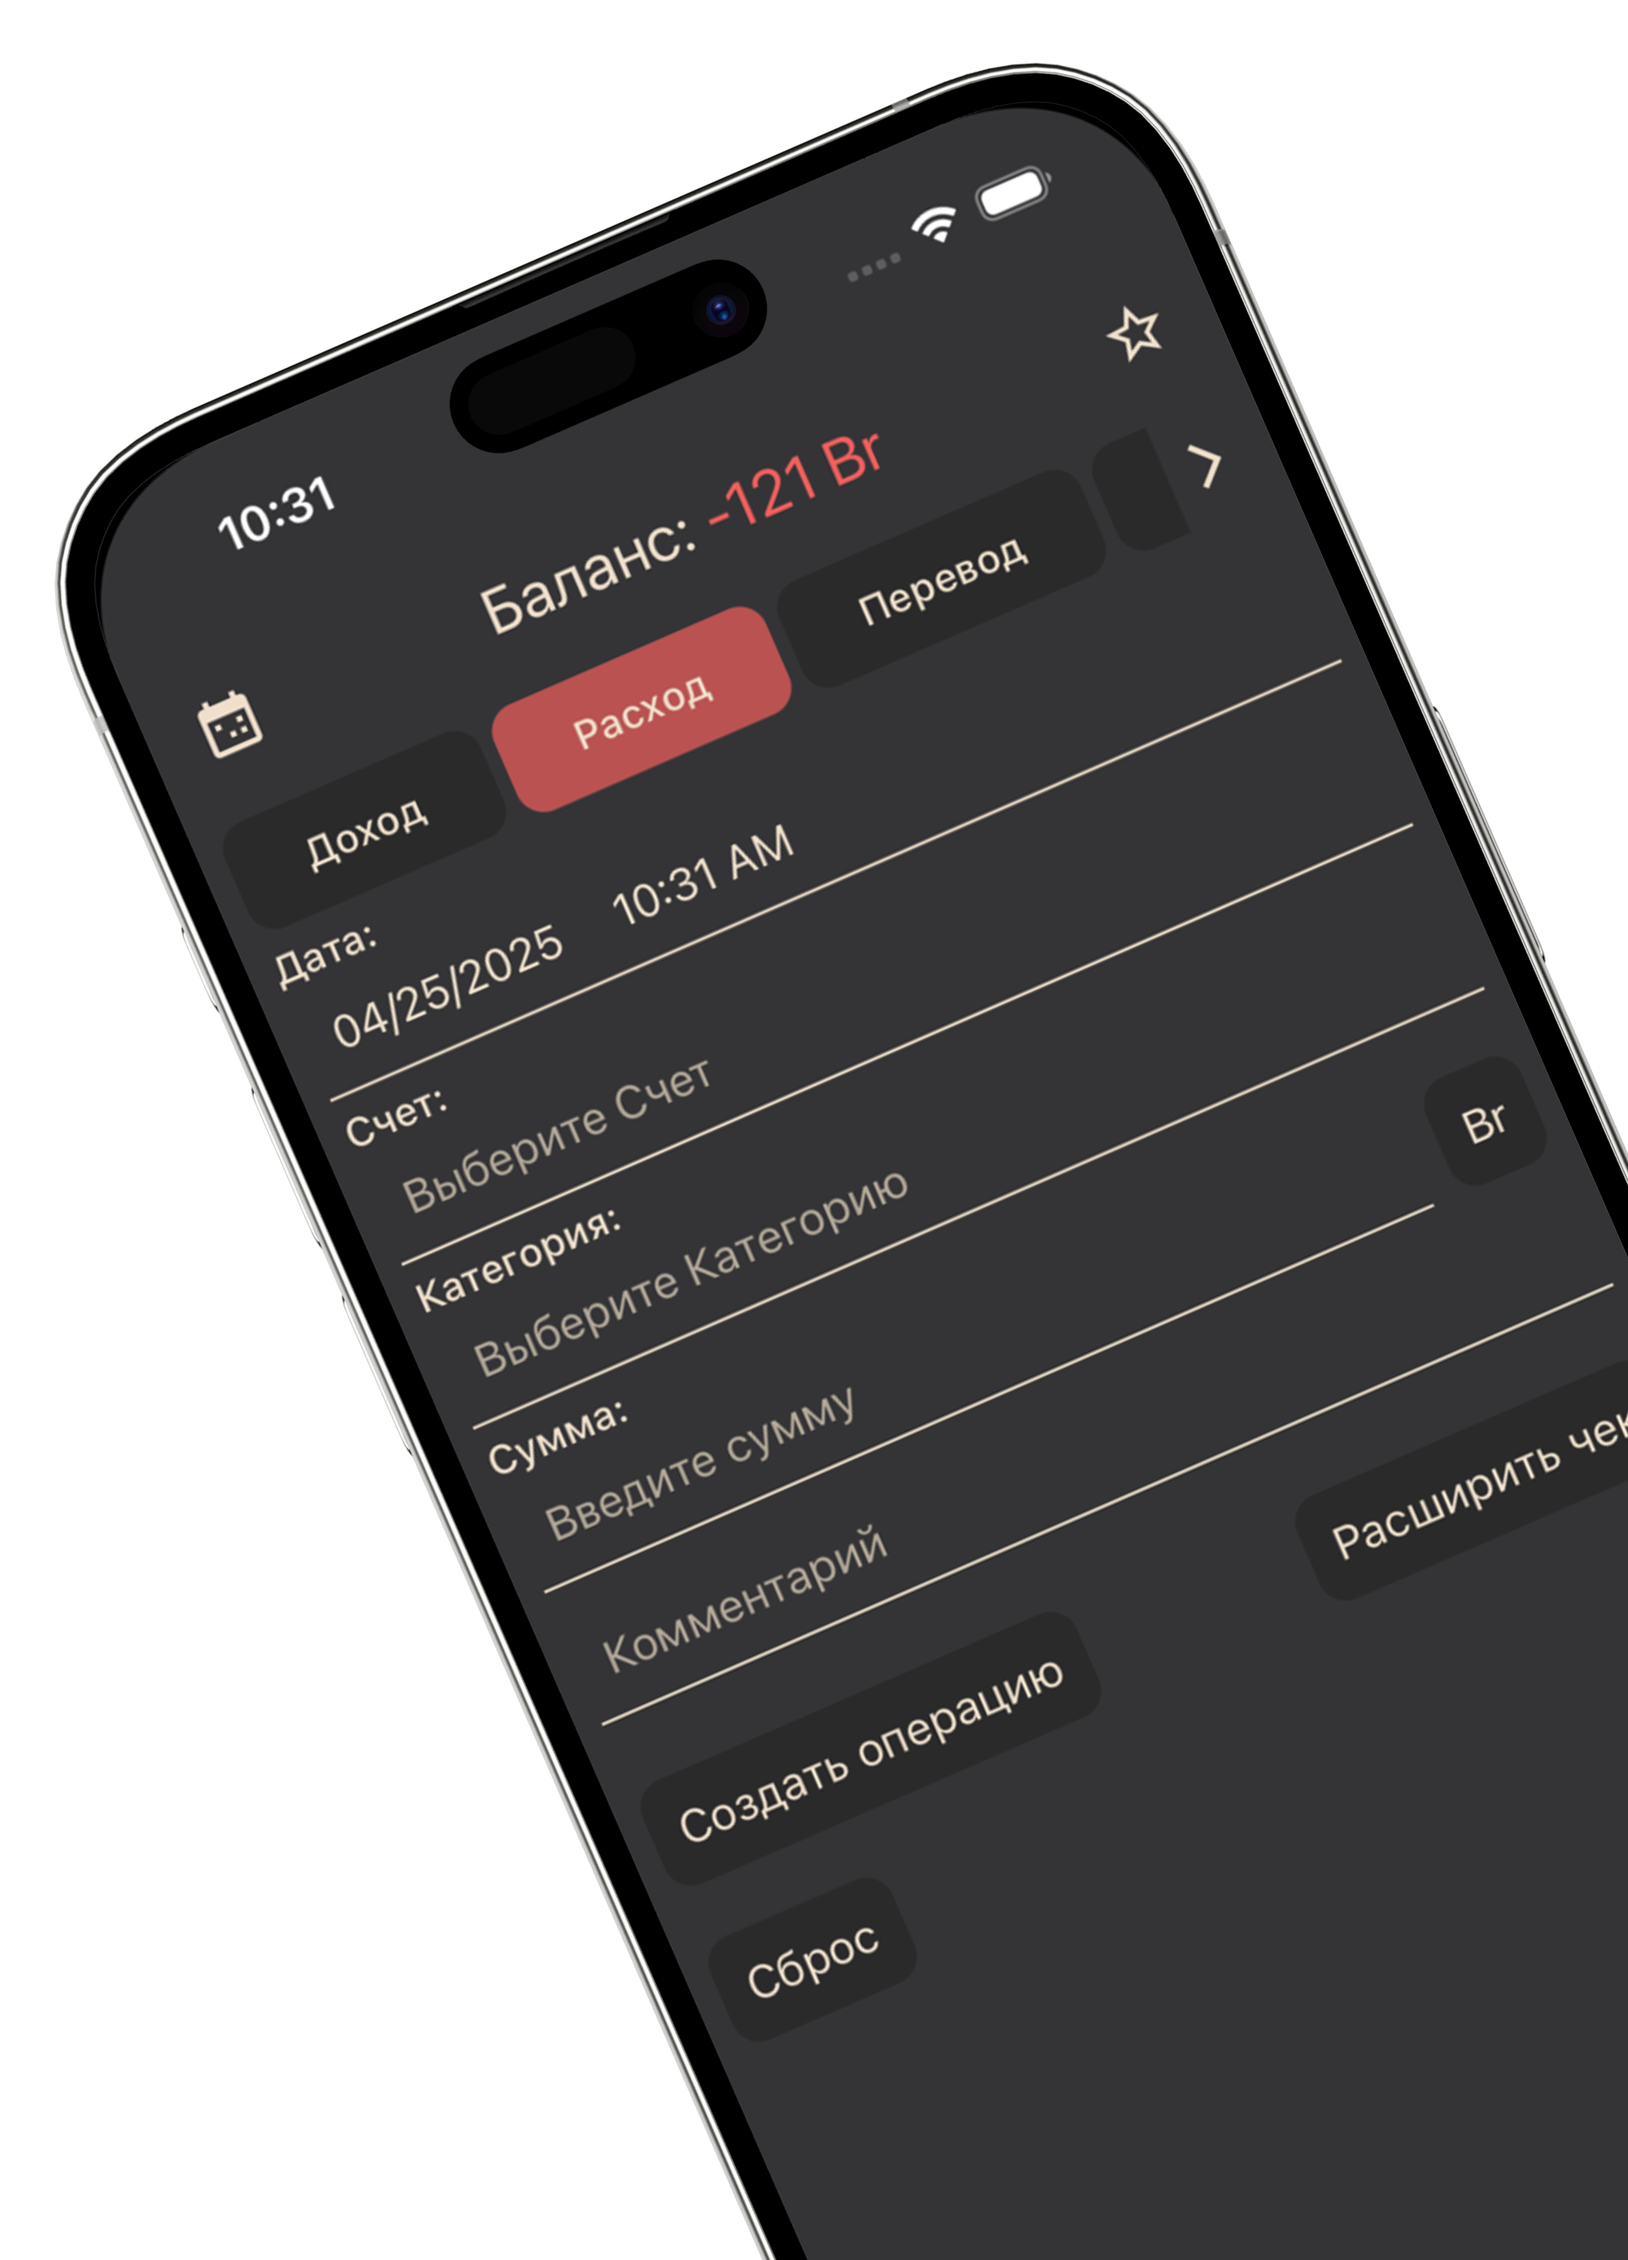
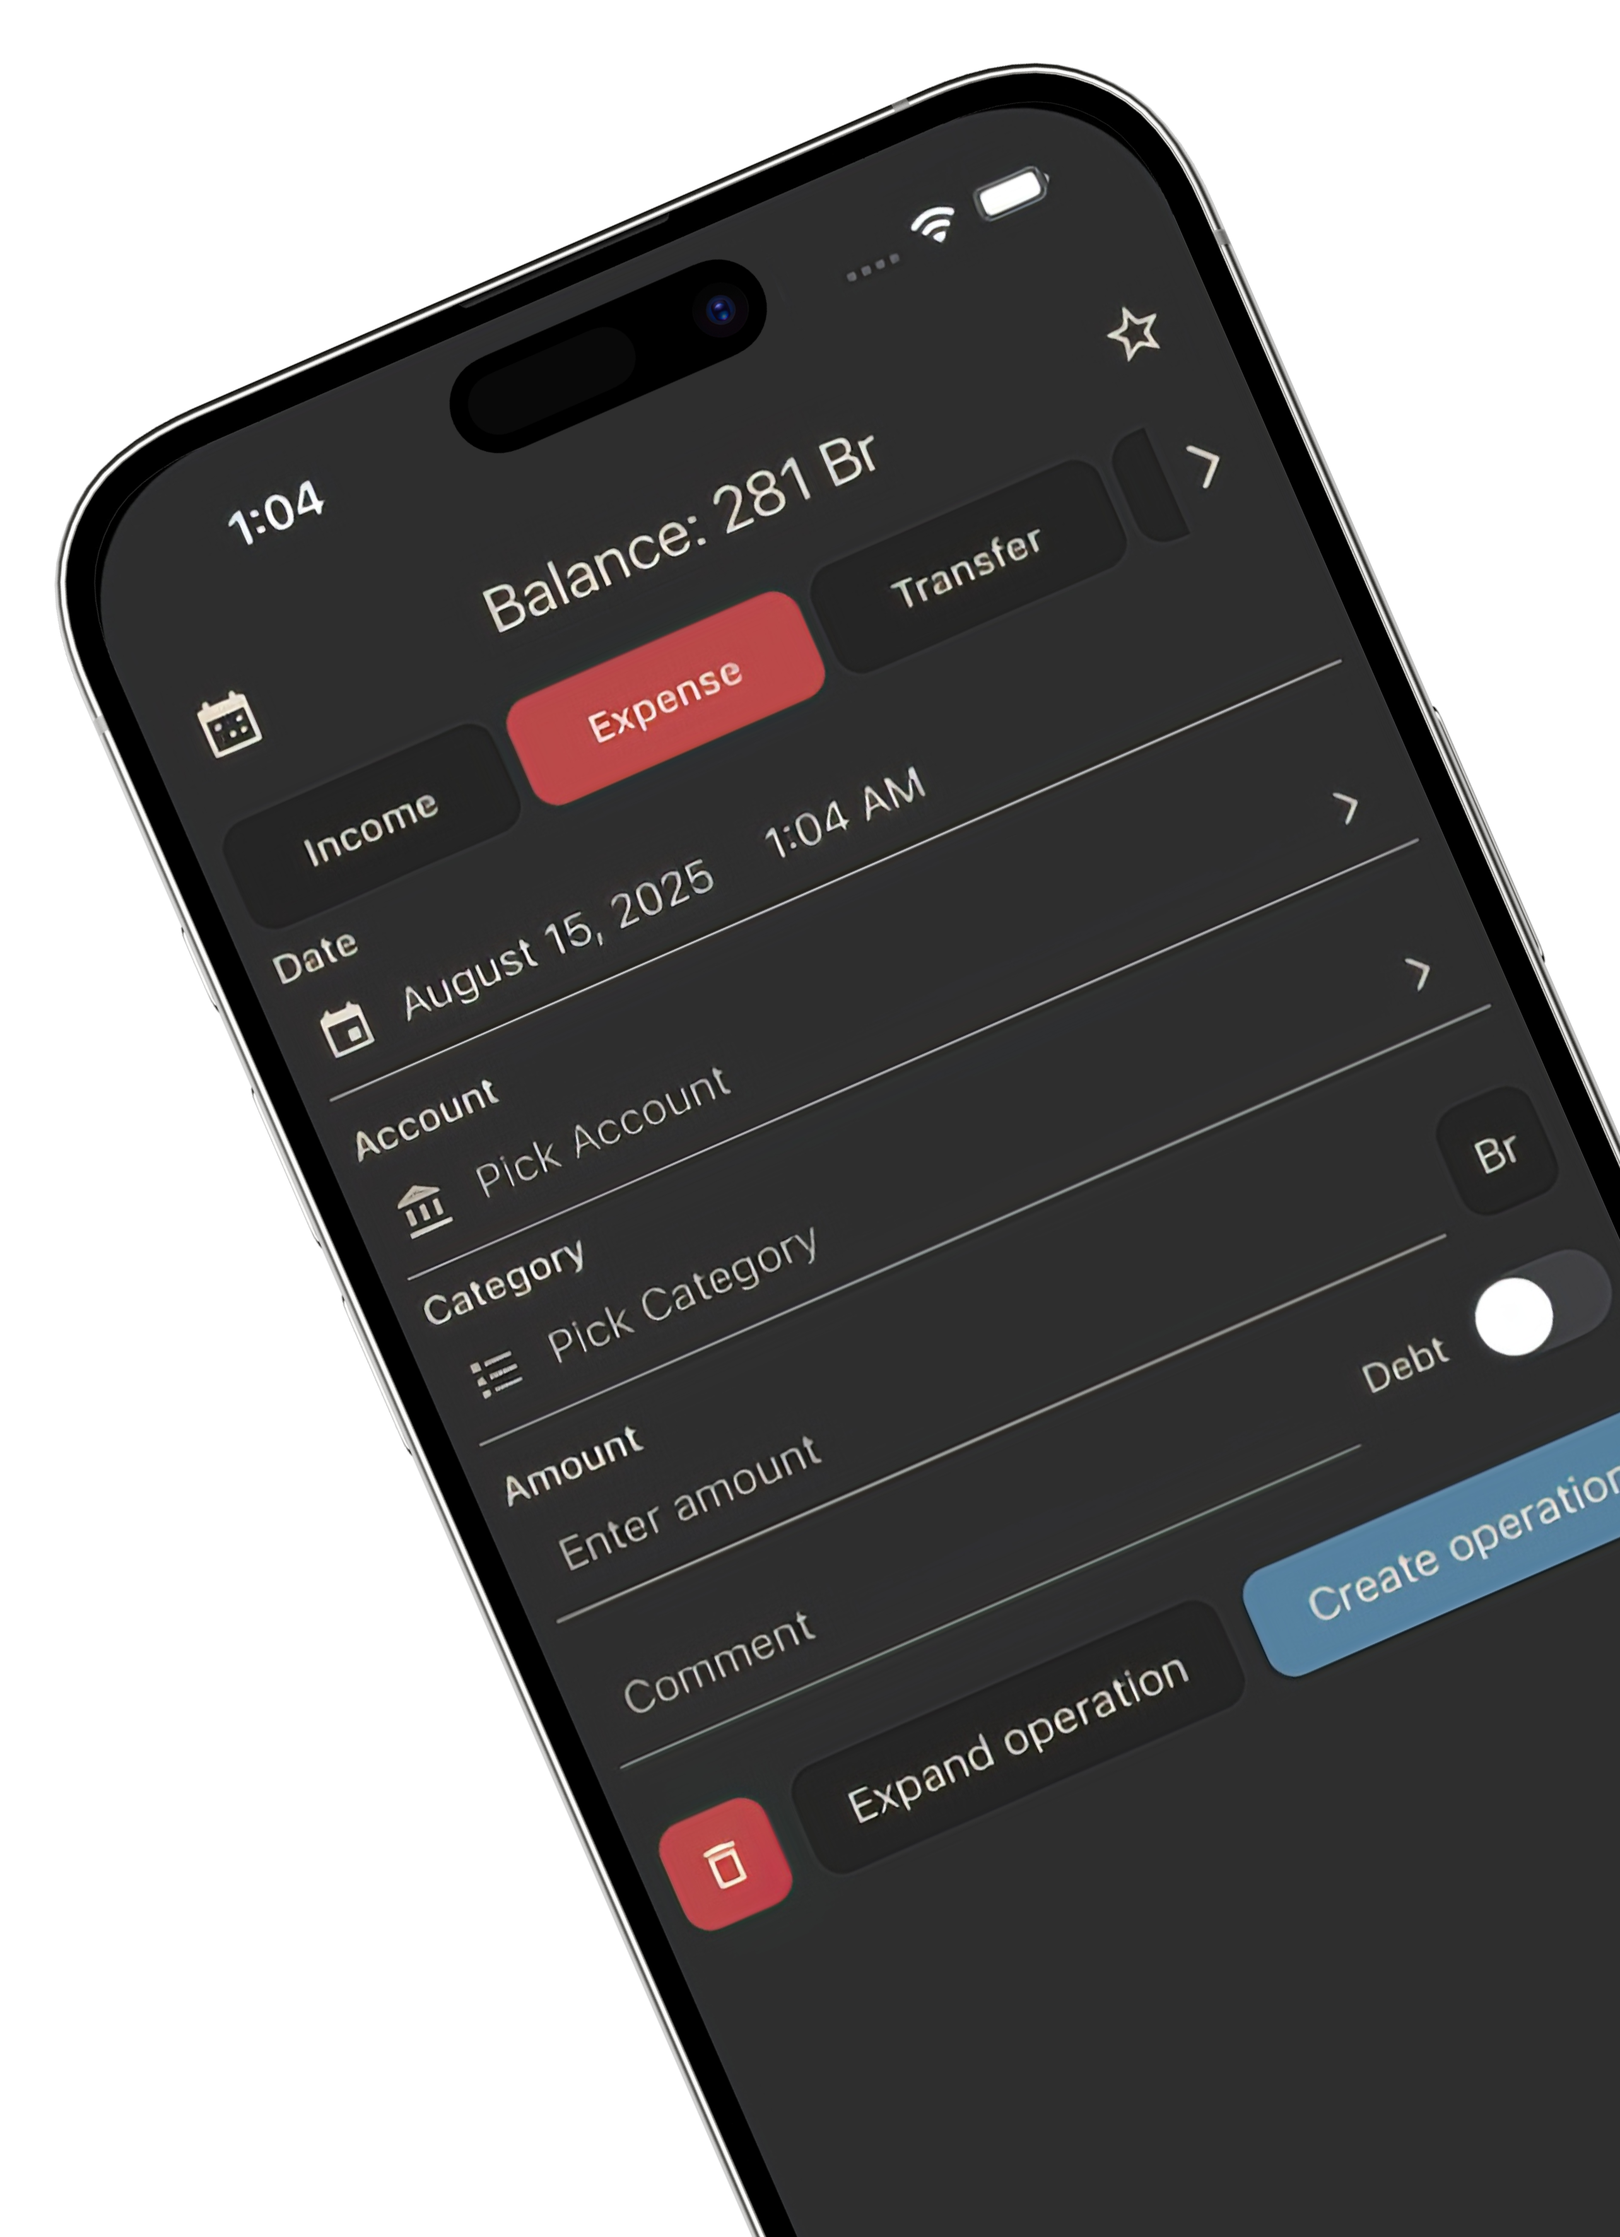
delete-account

diff --git a/delete-account/index.html b/delete-account/index.html
@@ -1,0 +1,110 @@
+<!DOCTYPE html>
+<html lang="en">
+<head>
+  <meta charset="UTF-8" />
+  <meta name="viewport" content="width=device-width, initial-scale=1.0" />
+  <meta name="robots" content="noindex, nofollow" />
+  <title>Delete Account — WalletWise</title>
+  <link rel="icon" type="image/png" href="../assets/logo.png" />
+  <link rel="apple-touch-icon" href="../assets/logo.png" />
+  <link href="https://fonts.googleapis.com/css?family=Lato:400,700&display=swap" rel="stylesheet" />
+  <style>
+    :root {
+      /* Светлая тема по умолчанию */
+      --primary: #45b69c; --accent: #f55d3e; --surface: #e2dad6; --background: #f5eded; --text: #463730; --header-bg: #fff; --shadow-color: rgba(0,0,0,.1);
+    }
+    @media (prefers-color-scheme: dark) {
+      :root { --primary:#7eb2dd; --accent:#f15f5c; --background:#343436; --surface:#2a2a2a; --text:#eee0cb; --header-bg:#2a2a2a; --shadow-color: rgba(0,0,0,.3); }
+    }
+
+    body { margin:0; font-family:'Lato',sans-serif; background:var(--background); color:var(--text); transition: background .3s ease, color .3s ease; }
+    .container { max-width:1200px; margin:0 auto; padding:0 16px; }
+
+    header { background:var(--header-bg); box-shadow:0 2px 8px var(--shadow-color); padding:24px 0 16px; }
+    header .container { display:flex; align-items:center; justify-content:space-between; }
+    .logo { font-size:2.2rem; font-weight:700; color:var(--primary); }
+
+    .content-page { padding:48px 0; }
+    .content-page h1 { font-size:2.2rem; margin-bottom:16px; }
+    .lead { font-size:1.1rem; line-height:1.6; opacity:.9; margin-bottom:16px; }
+    .notice { background:var(--surface); border-radius:10px; padding:14px 16px; margin:16px 0; box-shadow:0 2px 8px var(--shadow-color); }
+
+    .content-page h2 { font-size:1.6rem; margin:28px 0 12px; color:var(--primary); }
+    .content-page ul { margin:12px 0 16px; padding-left:22px; }
+    .content-page li { margin-bottom:8px; line-height:1.6; }
+
+    .content-page a { color:var(--primary); text-decoration:underline; transition: color .2s ease; }
+    .content-page a:hover { color:var(--accent); text-decoration:none; }
+
+    footer { color:var(--text); opacity:.8; font-size:.95rem; padding:24px 0 16px; border-top:1px solid var(--shadow-color); }
+    footer .container { display:flex; justify-content:space-between; align-items:center; flex-wrap:wrap; gap:16px; }
+    .footer-links { display:flex; gap:24px; }
+    .footer-links a { color:var(--text); text-decoration:none; }
+    .footer-links a:hover { color:var(--primary); text-decoration:underline; }
+
+    .footer-contacts { display:flex; gap:12px; flex-wrap:wrap; align-items:center; justify-content:center; }
+    .footer-contacts a { display:inline-flex; align-items:center; gap:8px; background:var(--primary); color:var(--background); text-decoration:none; padding:10px 14px; border-radius:8px; font-weight:700; transition: background .2s ease; }
+    .footer-contacts a:hover { background:var(--accent); }
+    .footer-contacts a img { width:18px; height:18px; display:inline-block; }
+
+    @media (max-width: 768px) { footer .container { flex-direction:column; text-align:center; } }
+  </style>
+</head>
+<body>
+  <header>
+    <div class="container">
+      <a href="../index.html" style="text-decoration:none; display:flex; align-items:center; gap:12px;">
+        <img src="../assets/logo.png" alt="WalletWise Logo" style="height:48px;width:auto;" />
+        <div class="logo">WalletWise</div>
+      </a>
+    </div>
+  </header>
+
+  <main class="content-page">
+    <div class="container">
+      <h1>Delete Account</h1>
+      <p class="lead">First, try to delete your account directly in the WalletWise app. It's faster and more secure.</p>
+
+      <div class="notice">
+        <strong>How to delete your account in the app:</strong>
+        <ul>
+          <li>Open the WalletWise app</li>
+          <li>Go to Settings → Account</li>
+          <li>Tap “Delete Account”</li>
+          <li>Confirm the deletion</li>
+        </ul>
+        <p style="margin:0; opacity:.85;">Note: This action is irreversible. After deletion, all personal data and saved items will be permanently removed and cannot be recovered (unless retention is required by law).</p>
+      </div>
+
+      <h2>If you can't delete your account in the app</h2>
+      <p class="lead">Contact the developer — we'll help delete your account manually. Please include your account email, platform (iOS/Android), and optionally your reason for deletion.</p>
+      <p>
+        Email:
+        <a href="mailto:trofimpanasikapps@gmail.com?subject=WalletWise%20account%20deletion&body=Hello%2C%20I%20cannot%20delete%20my%20account%20in%20the%20app.%0AAccount%20email%3A%20%0APlatform%20(iOS%2FAndroid)%3A%20%0AComment%20(optional)%3A%20" aria-label="Email the developer">
+          trofimpanasikapps@gmail.com
+        </a>
+      </p>
+
+      <p style="opacity:.8;">We usually respond within 1–3 business days.</p>
+    </div>
+  </main>
+
+  <footer>
+    <div class="container">
+      <span>&copy; 2025 WalletWise. All rights reserved.</span>
+      <div class="footer-links">
+        <a href="../privacy.html">Privacy Policy</a>
+        <a href="../terms.html">Terms of Service</a>
+      </div>
+      <div class="footer-contacts">
+        <a href="https://t.me/+vn7rDEHcgKo2ZDJi" target="_blank" rel="noopener noreferrer" aria-label="Contact via Telegram">
+          <img src="../assets/telegram.png" alt="" aria-hidden="true" /> Telegram
+        </a>
+        <a href="mailto:trofimpanasikapps@gmail.com?subject=Feedback" aria-label="Contact via Email">
+          <img src="../assets/gmail.png" alt="" aria-hidden="true" /> Email
+        </a>
+      </div>
+    </div>
+  </footer>
+</body>
+</html>

diff --git a/index.html b/index.html
@@ -535,14 +535,14 @@
             <button class="slider-btn" id="prev-btn" aria-label="Previous slide">&lt;</button>
             <div class="slider-track-container" style="overflow:hidden;width:100%;">
                 <div class="slider-track">
-                    <img src="assets/pages/page1.png" alt="Screenshot 1">
-                    <img src="assets/pages/page2.png" alt="Screenshot 2">
-                    <img src="assets/pages/page3.png" alt="Screenshot 3">
-                    <img src="assets/pages/page4.png" alt="Screenshot 4">
-                    <img src="assets/pages/page5.png" alt="Screenshot 5">
-                    <img src="assets/pages/page6.png" alt="Screenshot 6">
-                    <img src="assets/pages/page7.png" alt="Screenshot 7">
-                    <img src="assets/pages/page8.png" alt="Screenshot 8">
+                    <img src="assets/pages/1.png" alt="Screenshot 1">
+                    <img src="assets/pages/2.png" alt="Screenshot 2">
+                    <img src="assets/pages/3.png" alt="Screenshot 3">
+                    <img src="assets/pages/4.png" alt="Screenshot 4">
+                    <img src="assets/pages/5.png" alt="Screenshot 5">
+                    <img src="assets/pages/6.png" alt="Screenshot 6">
+                    <img src="assets/pages/7.png" alt="Screenshot 7">
+                    <img src="assets/pages/8.png" alt="Screenshot 8">
                 </div>
             </div>
             <button class="slider-btn" id="next-btn" aria-label="Next slide">&gt;</button>
